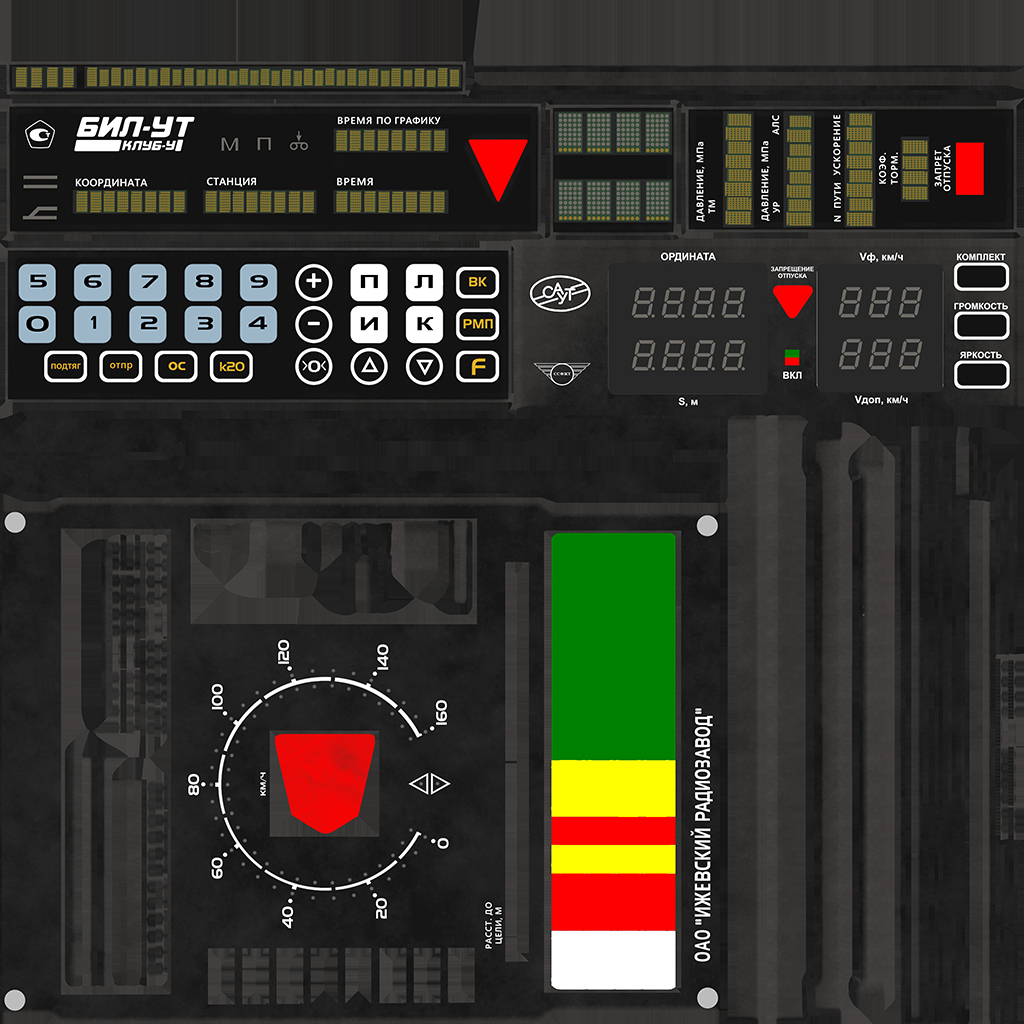
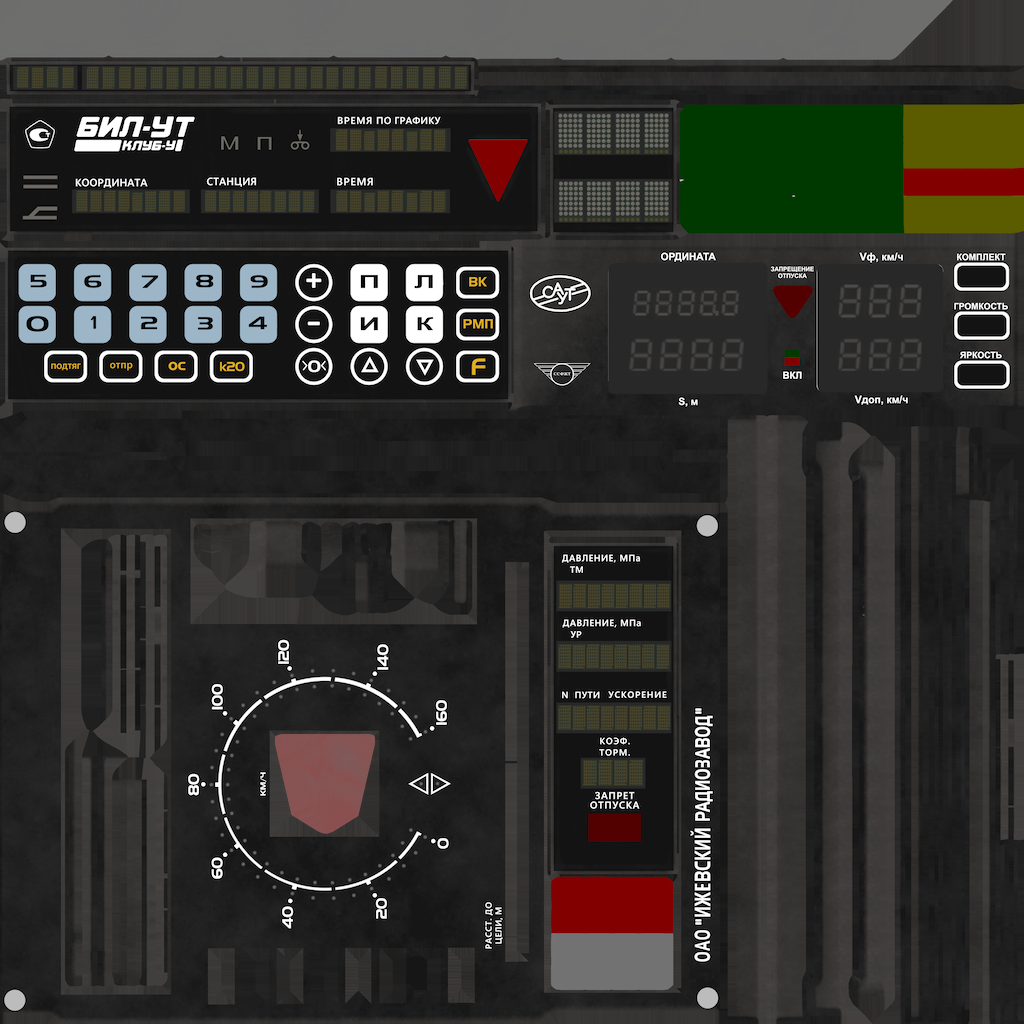
Ещё перерисовываю дисплей

diff --git a/club-u-display/src/block-right.cpp b/club-u-display/src/block-right.cpp
@@ -23,65 +23,65 @@ RightBlock::RightBlock(QSize size, QWidget *parent)
 
 
     //
-    txtPaintPressureTM1_ = new TextPaint(QSize(28, 30), this);
-    txtPaintPressureTM1_->move(0, 63);
-    txtPaintPressureTM1_->setFonts(20, Qt::green, TextPaint::LED_6X8_DOTS, 87);
-    txtPaintPressureTM1_->setParams(1, 25);
+    txtPaintPressureTM1_ = new TextPaint(QSize(14, 20), this);
+    txtPaintPressureTM1_->move(0, 0);
+    txtPaintPressureTM1_->setFonts(16, Qt::green);
+    txtPaintPressureTM1_->setParams(1, 14);
     txtPaintPressureTM1_->setText(QString("0"));
 
-    txtPaintPressureTM2_ = new TextPaint(QSize(70, 30), this);
-    txtPaintPressureTM2_->move(29, 63);
-    txtPaintPressureTM2_->setFonts(20, Qt::green, TextPaint::LED_6X8_DOTS, 87);
-    txtPaintPressureTM2_->setParams(2, 26);
-    txtPaintPressureTM2_->setPointForDigit(5, 25);
-    txtPaintPressureTM2_->setText(QString(".00"));
+    txtPaintPressureTM2_ = new TextPaint(QSize(36, 20), this);
+    txtPaintPressureTM2_->move(20, 0);
+    txtPaintPressureTM2_->setFonts(16, Qt::green);
+    txtPaintPressureTM2_->setParams(2, 14);
+    txtPaintPressureTM2_->setPointForDigit(1, 18);
+    txtPaintPressureTM2_->setText(QString("00"));
 
     //
-    txtPaintPressureUR1_ = new TextPaint(QSize(28, 30), this);
-    txtPaintPressureUR1_->move(0, 162);
-    txtPaintPressureUR1_->setFonts(20, Qt::green, TextPaint::LED_6X8_DOTS, 87);
-    txtPaintPressureUR1_->setParams(1, 25);
+    txtPaintPressureUR1_ = new TextPaint(QSize(14, 20), this);
+    txtPaintPressureUR1_->move(0, 60);
+    txtPaintPressureUR1_->setFonts(16, Qt::green);
+    txtPaintPressureUR1_->setParams(1, 14);
     txtPaintPressureUR1_->setText(QString("0"));
 
-    txtPaintPressureUR2_ = new TextPaint(QSize(70, 30), this);
-    txtPaintPressureUR2_->move(29, 162);
-    txtPaintPressureUR2_->setFonts(20, Qt::green, TextPaint::LED_6X8_DOTS, 87);
-    txtPaintPressureUR2_->setParams(2, 26);
-    txtPaintPressureUR2_->setPointForDigit(5, 25);
-    txtPaintPressureUR2_->setText(QString(".00"));
+    txtPaintPressureUR2_ = new TextPaint(QSize(36, 20), this);
+    txtPaintPressureUR2_->move(20, 60);
+    txtPaintPressureUR2_->setFonts(16, Qt::green);
+    txtPaintPressureUR2_->setParams(2, 14);
+    txtPaintPressureUR2_->setPointForDigit(1, 18);
+    txtPaintPressureUR2_->setText(QString("00"));
 
     //
-    TextPaint *txtPaintALS = new TextPaint(QSize(60, 30), this);
-    txtPaintALS->move(135, 162);
-    txtPaintALS->setFonts(20, Qt::green, TextPaint::LED_6X8_DOTS, 87);
-    txtPaintALS->setParams(2, 26);
+    TextPaint *txtPaintALS = new TextPaint(QSize(60, 20), this);
+    txtPaintALS->move(83, 60);
+    txtPaintALS->setFonts(16, Qt::green);
+    txtPaintALS->setParams(2, 14);
     txtPaintALS->setText("25");
 
     //
-    txtPaintNumTrack_ = new TextPaint(QSize(75, 30), this);
-    txtPaintNumTrack_->move(0, 261);
-    txtPaintNumTrack_->setFonts(20, Qt::green, TextPaint::LED_6X8_DOTS, 87);
-    txtPaintNumTrack_->setParams(4, 25, true);
+    txtPaintNumTrack_ = new TextPaint(QSize(56, 20), this);
+    txtPaintNumTrack_->move(0, 122);
+    txtPaintNumTrack_->setFonts(16, Qt::green);
+    txtPaintNumTrack_->setParams(4, 14, false);
     txtPaintNumTrack_->setText(QString("1ПР"));
 
     //
-    txtPaintAcceleration1_ = new TextPaint(QSize(28, 30), this);
-    txtPaintAcceleration1_->move(124, 261);
-    txtPaintAcceleration1_->setFonts(20, Qt::green, TextPaint::LED_6X8_DOTS, 87);
-    txtPaintAcceleration1_->setParams(1, 25);
+    txtPaintAcceleration1_ = new TextPaint(QSize(14, 20), this);
+    txtPaintAcceleration1_->move(71, 122);
+    txtPaintAcceleration1_->setFonts(16, Qt::green);
+    txtPaintAcceleration1_->setParams(1, 14);
     txtPaintAcceleration1_->setText(QString("0"));
 
-    txtPaintAcceleration2_ = new TextPaint(QSize(40, 30), this);
-    txtPaintAcceleration2_->move(154, 261);
-    txtPaintAcceleration2_->setFonts(20, Qt::green, TextPaint::LED_6X8_DOTS, 87);
-    txtPaintAcceleration2_->setParams(1, 25);
-    txtPaintAcceleration2_->setPointForDigit(4, 25);
+    txtPaintAcceleration2_ = new TextPaint(QSize(22, 20), this);
+    txtPaintAcceleration2_->move(91, 122);
+    txtPaintAcceleration2_->setFonts(16, Qt::green);
+    txtPaintAcceleration2_->setParams(1, 14);
+    txtPaintAcceleration2_->setPointForDigit(1, 18);
     txtPaintAcceleration2_->setText(QString("0"));
 
 
     // Индикация "Запрет отпуска"
-    indicationZapretOtpuska_ = new ImageWidget("rcc", "ind_zapret_otpuska", QSize(94,48), this);
-    indicationZapretOtpuska_->move(53, 432);
+    indicationZapretOtpuska_ = new ImageWidget("rcc", "ind_zapret_otpuska", QSize(53,29), this);
+    indicationZapretOtpuska_->move(30, 227);
     indicationZapretOtpuska_->setVisible(true);
 
 }

diff --git a/club-u-display/src/club-u-display.cpp b/club-u-display/src/club-u-display.cpp
@@ -8,7 +8,6 @@
 #include    "club-u-funcs.h"
 #include    "ep1m-signals.h"
 
-#include    "ALSN.h"
 #include    "speedometer.h"
 #include    "reverse-indication.h"
 #include    "block-top.h"
@@ -110,8 +109,29 @@ void ClubUDisplay::initBlocks_()
 */
 
     // Локомотивный светофор
-    alsn_ = new ALSN(QSize(108,461), this);
-    alsn_->move(555, 536);
+    alsnG4_ = new ImageWidget("rcc", "alsn_green", QSize(100, 50), this);
+    alsnG4_->move(690, 113);
+
+    alsnG3_ = new ImageWidget("rcc", "alsn_green", QSize(100, 50), this);
+    alsnG3_->move(690, 171);
+
+    alsnG2_ = new ImageWidget("rcc", "alsn_green", QSize(100, 50), this);
+    alsnG2_->move(800, 113);
+
+    alsnG1_ = new ImageWidget("rcc", "alsn_green", QSize(100, 50), this);
+    alsnG1_->move(800, 171);
+
+    alsnY_ = new ImageWidget("rcc", "alsn_yellow", QSize(100, 50), this);
+    alsnY_->move(910, 113);
+
+    alsnRY_ = new ImageWidget("rcc", "alsn_yellow_red", QSize(100, 50), this);
+    alsnRY_->move(910, 171);
+
+    alsnR_ = new ImageWidget("rcc", "alsn_red", QSize(100, 50), this);
+    alsnR_->move(556, 880);
+
+    alsnW_ = new ImageWidget("rcc", "alsn_white", QSize(100, 50), this);
+    alsnW_->move(556, 935);
 
     // Спидометр
     speedometer_ = new Speedometer(QSize(223,236), cfg_path, this);
@@ -130,8 +150,8 @@ void ClubUDisplay::initBlocks_()
     middleBlock_->move(586, 113);
 
     // Правый блок
-    rightBlock_ = new RightBlock(QSize(1, 1), this);
-    rightBlock_->move(552, 534);
+    rightBlock_ = new RightBlock(QSize(112, 256), this);
+    rightBlock_->move(558, 586);
 
     // Нижний блок
     bottomBlock_ = new BottomBlock(QSize(454, 20), this);
@@ -167,7 +187,14 @@ void ClubUDisplay::update(double t, double dt)
     bool cab2 = (signal_id == KLUB_U_CAB2_POWER);
     if (!(cab1 || cab2) || input_signals[signal_id] == 0.0f)
     {
-        alsn_->setVisible(false);
+        alsnG4_->setVisible(false);
+        alsnG3_->setVisible(false);
+        alsnG2_->setVisible(false);
+        alsnG1_->setVisible(false);
+        alsnY_->setVisible(false);
+        alsnRY_->setVisible(false);
+        alsnR_->setVisible(false);
+        alsnW_->setVisible(false);
         speedometer_->setVisible(false);
         reverseInd_->setVisible(false);
         topBlock_->setVisible(false);
@@ -178,8 +205,16 @@ void ClubUDisplay::update(double t, double dt)
 
         return;
     }
-
-    alsn_->setVisible(true);
+/*
+    alsnG4_->setVisible(true);
+    alsnG3_->setVisible(true);
+    alsnG2_->setVisible(true);
+    alsnG1_->setVisible(true);
+    alsnY_->setVisible(true);
+    alsnRY_->setVisible(true);
+    alsnR_->setVisible(true);
+    alsnW_->setVisible(true);
+*/
     speedometer_->setVisible(true);
     reverseInd_->setVisible(true);
     topBlock_->setVisible(true);
@@ -266,8 +301,14 @@ void ClubUDisplay::update(double t, double dt)
         float epk_on = cab1 ? 1.0f : 2.0f;
         if (input_signals[KLUB_U_EPK] == epk_on)
         {
-            alsn_->setSignal(static_cast<int>(input_signals[KLUB_U_ALSN]),
-                             static_cast<int>(input_signals[KLUB_U_ALSN_FB]));
+            alsnG4_->setVisible((input_signals[KLUB_U_ALSN] == 4.0f) && (input_signals[KLUB_U_ALSN_FB] >= 4.0f));
+            alsnG3_->setVisible((input_signals[KLUB_U_ALSN] == 4.0f) && (input_signals[KLUB_U_ALSN_FB] >= 3.0f));
+            alsnG2_->setVisible((input_signals[KLUB_U_ALSN] == 4.0f) && (input_signals[KLUB_U_ALSN_FB] >= 2.0f));
+            alsnG1_->setVisible(input_signals[KLUB_U_ALSN] == 4.0f);
+            alsnY_->setVisible(input_signals[KLUB_U_ALSN] == 3.0f);
+            alsnRY_->setVisible(input_signals[KLUB_U_ALSN] == 2.0f);
+            alsnR_->setVisible(input_signals[KLUB_U_ALSN] == 1.0f);
+            alsnW_->setVisible(input_signals[KLUB_U_ALSN] == 0.0f);
 
             speedometer_->setVigilanceCheck(static_cast<bool>(input_signals[KLUB_U_BDITELNOST]));
             speedometer_->setSpeeds(static_cast<int>(input_signals[KLUB_U_SPEED]),
@@ -286,7 +327,14 @@ void ClubUDisplay::update(double t, double dt)
         }
         else
         {
-            alsn_->setSignal(ALSN_COLORS::GREEN, 0);
+            alsnG4_->setVisible(false);
+            alsnG3_->setVisible(false);
+            alsnG2_->setVisible(false);
+            alsnG1_->setVisible(false);
+            alsnY_->setVisible(false);
+            alsnRY_->setVisible(false);
+            alsnR_->setVisible(false);
+            alsnW_->setVisible(false);
 
             speedometer_->setVigilanceCheck(false);
             speedometer_->setSpeeds(static_cast<int>(input_signals[KLUB_U_SPEED]), -5, -5);

diff --git a/club-u-display/include/club-u-display.h b/club-u-display/include/club-u-display.h
@@ -3,7 +3,8 @@
 
 #include    "display.h"
 
-class ALSN;
+//class ALSN;
+class ImageWidget;
 class Speedometer;
 class ReverseInd;
 class TopBlock;
@@ -27,7 +28,14 @@ public:
 
 private:
 
-    ALSN*           alsn_ = nullptr;
+    ImageWidget*    alsnG4_ = nullptr;
+    ImageWidget*    alsnG3_ = nullptr;
+    ImageWidget*    alsnG2_ = nullptr;
+    ImageWidget*    alsnG1_ = nullptr;
+    ImageWidget*    alsnY_ = nullptr;
+    ImageWidget*    alsnRY_ = nullptr;
+    ImageWidget*    alsnR_ = nullptr;
+    ImageWidget*    alsnW_ = nullptr;
     Speedometer*    speedometer_ = nullptr;
     ReverseInd*     reverseInd_ = nullptr;
     TopBlock*       topBlock_ = nullptr;

diff --git a/ep1m/src/ep1m-process-keyprocess.cpp b/ep1m/src/ep1m-process-keyprocess.cpp
@@ -87,5 +87,7 @@ void EP1m::keyProcess(const simulator_time_t& t, const double& dt)
         {
             switchers[i][cab_idx].step(t.simulation_seconds, dt);
         }
+
+        brake_lock_door[cab_idx].step(t.simulation_seconds, dt);
     }
 }
